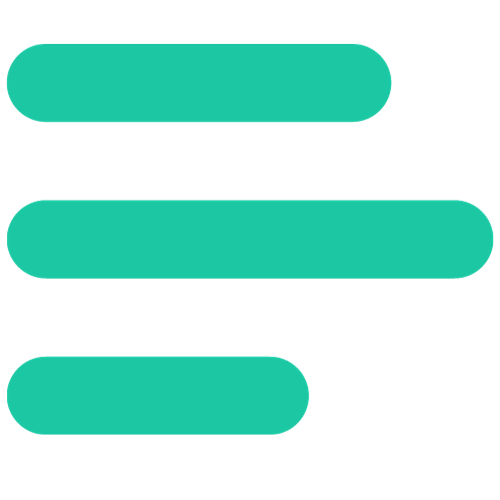
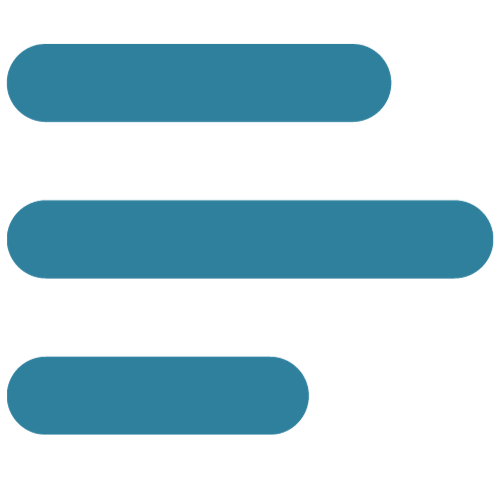
colourchange

diff --git a/src/components/Navbar/navbar.css b/src/components/Navbar/navbar.css
@@ -3,7 +3,7 @@
 .navbar{
     height: 5rem;
     width: 100vw;
-    
+    color: rgba(12, 100, 151, 0.788);
     display:flex;
     margin: 0 ;
     padding: 1rem 2rem;
@@ -14,7 +14,7 @@
     z-index: 3;
     box-shadow: 0px 12px 15px -5px rgba(0,0,0,0.75);
     border-radius: 5px;
-    background: white;
+    background: whitesmoke;
     
 }
 
@@ -31,16 +31,16 @@
 }
 
 .desktopMenuListItem:hover {
-    color: rgb(25, 214, 158);
+    color: rgba(21, 139, 207, 0.788);
     padding-bottom: 0.5rem;
-    border-bottom: 3px solid rgb(25, 214, 158);
+    border-bottom: 3px solid rgba(21, 139, 207, 0.788) ;
 }
 
 .desktopMenuButton{
     display: flex;
     align-items: center;
     cursor: pointer;
-    background-color: rgb(226, 221, 221);
+    background-color: rgba(21, 139, 207, 0.788);
     padding: 0.65rem 1.5rem;
     border: none;
     border-radius: 2rem;
@@ -48,7 +48,8 @@
 }
 
 .desktopMenuButton:hover{
-    background-color: rgb(25, 214, 158);
+    color: white;
+    
 }
 
 .menuIcon{
@@ -58,7 +59,7 @@
 }
 
 .active{
-    color: rgb(25, 214, 158);
+    color: rgba(21, 139, 207, 0.788);
 }
 
 .mobMenu{
@@ -80,7 +81,7 @@
     flex-direction: column;
     padding: 0.5rem;
     height: fit-content;
-    background-color: rgb(163, 159, 159);
+    background-color: whitesmoke;
     border-radius: 1rem;
     min-width: 10rem;
     
@@ -95,9 +96,9 @@
 }
 
 .listItem:hover{
-    color: rgb(25, 214, 158);
+    color: black;
     padding-bottom: 0.5rem;
-    border-bottom: 3px solid rgb(25, 214, 158);
+    border-bottom: 3px solid  rgba(21, 139, 207, 0.788);
 }
 
 @media screen and (max-width:1000px) {

diff --git a/src/components/Intro/intro.css b/src/components/Intro/intro.css
@@ -22,7 +22,7 @@
 
 .title{
     font-size: 4rem;
-    color: rgb(25, 214, 158);
+    color: whitesmoke;
     margin: 0.5rem;
     text-shadow: -1px 3px 2px rgb(4, 23, 37);
     
@@ -35,12 +35,13 @@
     font-size: 1.7rem;
     margin-bottom: 1rem;
     font-weight: bold;
+    color: black;
 }
     
 
 .qs{
     font-size: 1.2rem;
-    color: rgb(25, 214, 158);
+    color: whitesmoke;
 
 }
 
@@ -53,7 +54,7 @@
 
 .pm{
     font-size: 1.2rem;
-    color: rgb(25, 214, 158);
+    color: whitesmoke;
 
 }
 
@@ -78,6 +79,7 @@
     font-size: 0.85rem;
     font-weight: bold;
     margin-top: 20px;
+    color: black;
 
 }
 

diff --git a/src/components/Contacts/contact.css b/src/components/Contacts/contact.css
@@ -32,6 +32,7 @@
     width: 8%;
     min-width: 4rem;
     margin: 1rem;
+    border-radius: 5px;
 }
 
 .contactUs{
@@ -52,7 +53,7 @@
 
 
 .email{
-    background-color: rgb(136, 132, 132);
+    background-color: whitesmoke;
     margin-bottom: 10px;
     color: black;
     padding: 1rem;
@@ -62,7 +63,8 @@
 
 .email:hover{
     
-    background-color: rgb(25, 214, 158);
+    background-color: rgba(21, 139, 207, 0.788);
+    color: whitesmoke;
     
 }
 .link{

diff --git a/src/components/Footer/footer.css b/src/components/Footer/footer.css
@@ -1,11 +1,12 @@
 .footer{
     width: 100vw;
     height: 4rem;
-    background-color: rgb(187, 183, 183);
+    background-color: whitesmoke;
     display: flex;
     align-items: center;
     justify-content: space-around;
     font-size: small;
+    color: black;
 
 }
 

diff --git a/src/components/Skills/skills.css b/src/components/Skills/skills.css
@@ -25,9 +25,11 @@
 }
 
 .skillBars{
+    color: black;
+    font-style: italic;
     max-width: 30rem;
     min-width: 20rem;
-   background-color: rgb(182, 177, 177);
+   background-color: white;
    border-radius: 8px;
    padding: 0.1rem 3rem;
    margin: 0.5rem;

diff --git a/src/style.css b/src/style.css
@@ -10,8 +10,8 @@
 
 body{
   width: 100vw;
-  background: white;
-  color: black;
+  background-image: linear-gradient(to top, #09203f 0%, #537895 100%);;
+  color: white;
   overflow: hidden;
   overflow-y: scroll;
 }

diff --git a/src/components/Intro/intro.jsx b/src/components/Intro/intro.jsx
@@ -2,7 +2,7 @@ import React from 'react'
 import './intro.css'
 import hero from '../images/hero.png'
 import brief from '../images/brief.png'
-import {Link} from 'react-scroll'
+
 
 const Intro = () => {
   return (
